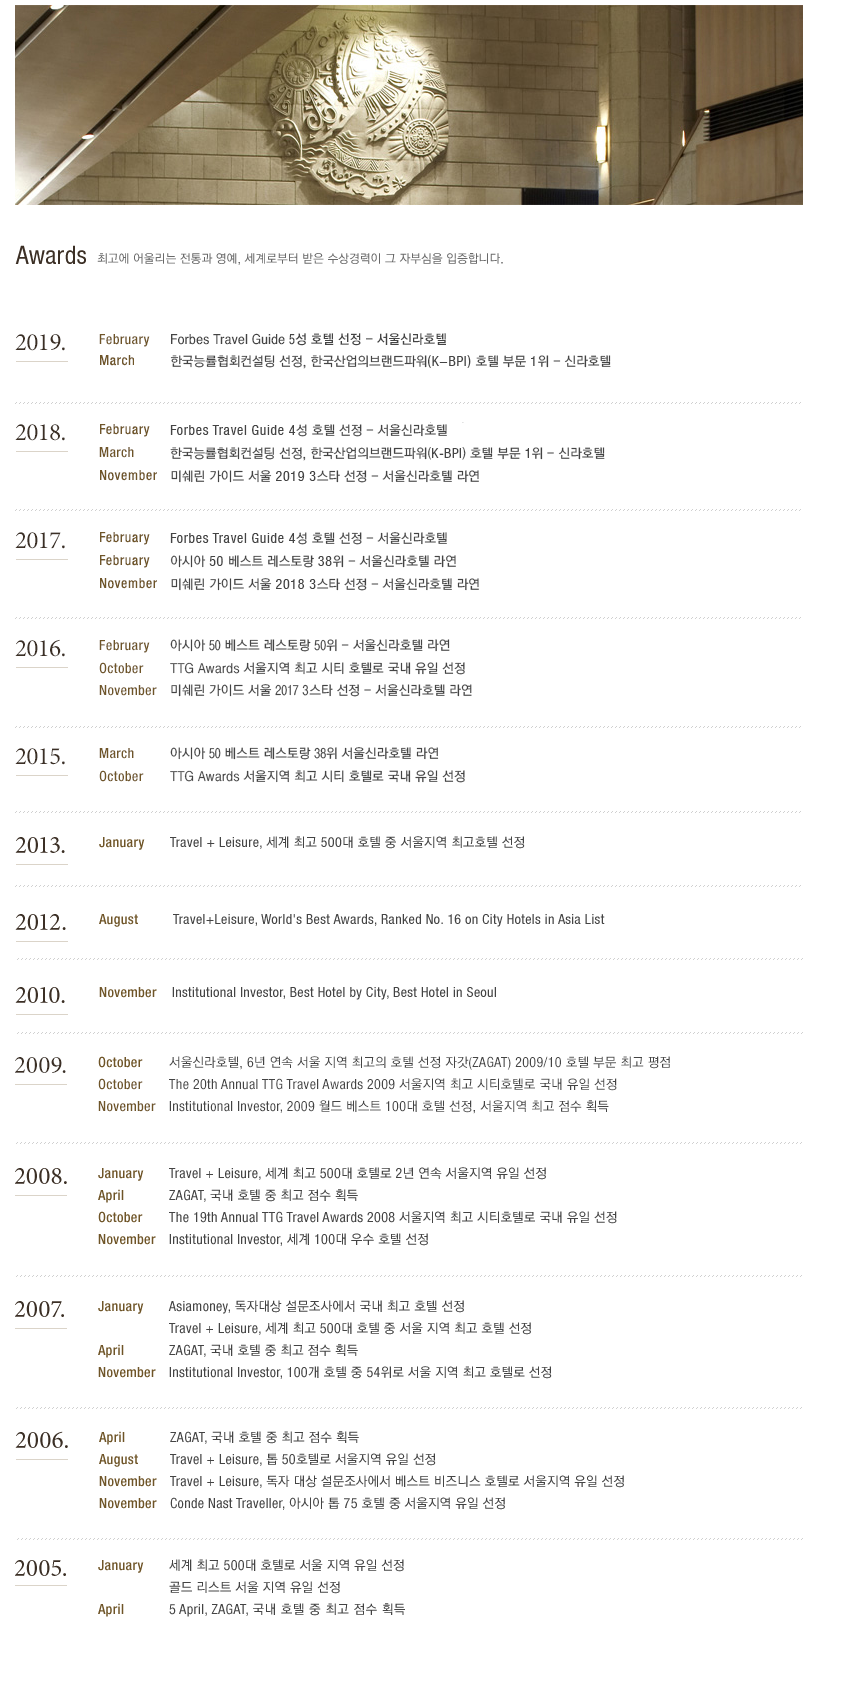
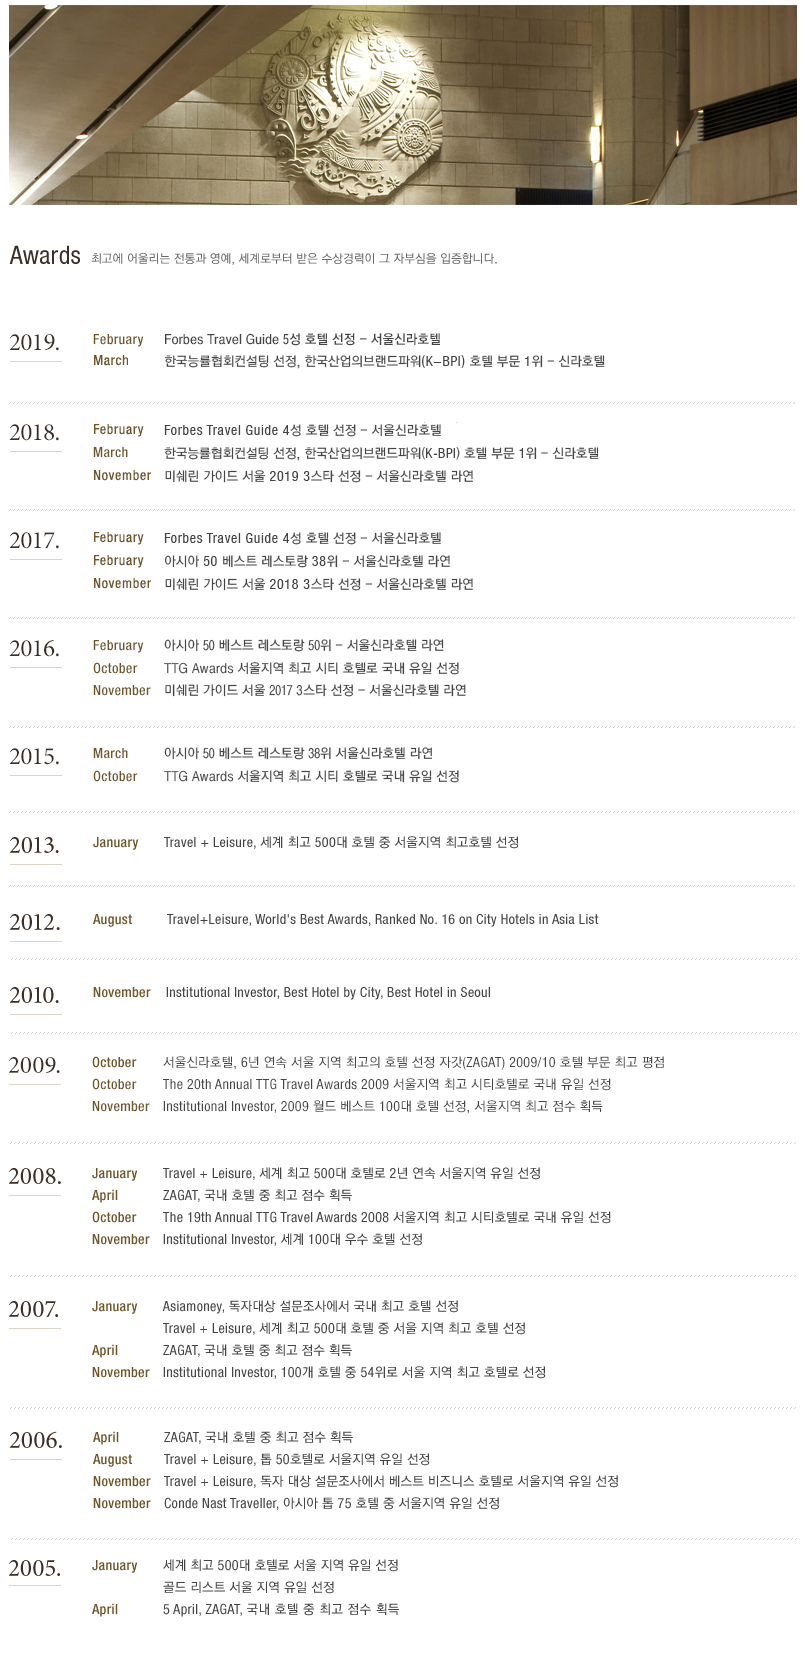
todayup

diff --git a/css/tablet.css b/css/tablet.css
@@ -565,16 +565,19 @@ div.p_right>img{
 /*sub*/
 #sub_header{
 	background: url(../images/sub_menu_bg.png) no-repeat center;
-	background-size: cover;
+	background-size: cover;position: relative;
 
 }
 #sub_header #sub_header_top{
-	width:1260px;height: 450px;margin: 0 auto;padding-top: 20px;position: relative;}
+	width:100%;height: 450px;margin: 0 auto;padding-top: 20px;position: relative;}
 
-#sub_header #sub_header_top>h1{float: left;}
+#sub_header #sub_header_top>h1{
+	_float: left;position: absolute;left: 50%;margin-left: -110px;top: 20%;
+
+}
 #sub_header #sub_header_top>h1>a{}
 
-#sub_header #sub_header_top #sub_main_menu{float: right;padding-top: 7px;}
+#sub_header #sub_header_top #sub_main_menu{float: right;padding-top: 7px;display: none;}
 
 #sub_header #sub_header_top #sub_main_menu ul.sub_util_menu{width:600px;padding-left:165px;margin-bottom: 3px;}
 #sub_header #sub_header_top #sub_main_menu ul.sub_util_menu li{
@@ -601,13 +604,20 @@ div.p_right>img{
 
 /*at_menu*/
 
-.at_menu{width: 1260px;position: absolute;bottom: 0;}
+.at_menu{width: 100%;position: absolute;bottom: 0;}
 .at_menu>ul{
-	width: 1260px;height: 60px;background-color:#eaeaea;
+	width: 100%;height: 122px;background-color:#eaeaea;
 	border-bottom: 2px solid #183464;
 }
-.at_menu>ul>li{width: 210px;height: 60px;float: left;border-right: 1px solid #bebebe;}
+.at_menu>ul>li{
+	width:33.3%;height: 60px;
+	float: left;
+	border-right: 1px solid #bebebe;
+	border: 1px solid #bebebe;
+
+}
 .at_menu>ul>li:last-child{border-right: none;}
+.at_menu>ul>li:nth-child(3){border-right: none;}
 .at_menu>ul>li>a{display: block;line-height: 60px;text-align: center;}
 .at_menu>ul>li>a.active{color:white;background-color: #183464;}
 
@@ -626,21 +636,25 @@ div.p_right>img{
 
 /*location*/
 
-.location{width: 1260px;position: relative;height: 150px;margin: 0 auto;}
-.location>ul{width: 300px;position: absolute;left: 0;top: 20px;}
+.location{width: 100%;position: relative;height: 150px;margin: 0 auto;}
+.location>ul{width: 300px;position: absolute;left: 23px;top: 20px;}
 .location>ul>li{float: left;margin-right: 10px;}
 .location>ul>li:last-child a{color: #162e58;}
 .location>p.sub01_01{
 	color:#162e58;position: absolute;top: 80px;left: 50%;margin-left: -20px;
-	font-size: 26px;
+	font-size: 20px;
 }
 .location>p.sub01_02{
-	color:#162e58;position: absolute;top: 80px;left: 50%;margin-left: -80px;
-	font-size: 26px;
+	color:#162e58;position: absolute;top: 80px;left: 50%;margin-left: -60px;
+	font-size: 20px;
 }
 .location>p.sub01_03{
-	color:#162e58;position: absolute;top: 80px;left: 50%;margin-left: -80px;
-	font-size: 26px;
+	color:#162e58;position: absolute;top: 80px;left: 50%;margin-left: -50px;
+	font-size: 20px;
+}
+.location>p.sub01_06{
+	color:#162e58;position: absolute;top: 80px;left: 50%;margin-left: -40px;
+	font-size: 20px;
 }
 .location>p:before{
 	content: "";display: block;background-color: #162e58;width: 30px;height: 2px;
@@ -649,9 +663,9 @@ div.p_right>img{
 
 /*sub_img*/
 
-.sub_img{width: 1260px;margin: 0 auto;}
+.sub_img{width: 100%;margin: 0 auto;}
 .sub_img>img{margin: 0 auto;display: block;width: 100%;}
-
+.sub_img_06>img{margin: 0 auto;display: block;width: 100%;} 
 /*sub_footer*/
 .footerbg{width: 100%;background-color: #f2e3c4;}
 .footer01{height: 172px;background-color:#f2e3c4;width: 1260px;margin: 0 auto;}

diff --git a/sub01_06.html b/sub01_06.html
@@ -1,6 +1,7 @@
 <!DOCTYPE html>
 <html lang="ko">
 <head>
+	<meta name="viewport" content="width=device-width, user-scalable=no, initial-scale=1.0, maximum-scale=1.0, minimum-scale=1.0">
 	<meta charset="UTF-8">
 	<title>sub</title>
 	<link rel="stylesheet" href="css/reset.css">
@@ -57,7 +58,7 @@
 			<li><a href="#"><img src="images/ri_icon.png" alt=""></a></li>
 			<li><a href="#">수상이력</a></li>
 		</ul>
-		<p class="sub01_03">수상이력</p>
+		<p class="sub01_06">수상이력</p>
 
 	</div>
 	<div class="sub_img">

diff --git a/sub01_01.html b/sub01_01.html
@@ -1,6 +1,7 @@
 <!DOCTYPE html>
 <html lang="ko">
 <head>
+	<meta name="viewport" content="width=device-width, user-scalable=no, initial-scale=1.0, maximum-scale=1.0, minimum-scale=1.0">
 	<meta charset="UTF-8">
 	<title>sub</title>
 	<link rel="stylesheet" href="css/reset.css">

diff --git a/sub01_02.html b/sub01_02.html
@@ -1,6 +1,7 @@
 <!DOCTYPE html>
 <html lang="ko">
 <head>
+	<meta name="viewport" content="width=device-width, user-scalable=no, initial-scale=1.0, maximum-scale=1.0, minimum-scale=1.0">
 	<meta charset="UTF-8">
 	<title>sub</title>
 	<link rel="stylesheet" href="css/reset.css">

diff --git a/sub01_03.html b/sub01_03.html
@@ -1,6 +1,7 @@
 <!DOCTYPE html>
 <html lang="ko">
 <head>
+	<meta name="viewport" content="width=device-width, user-scalable=no, initial-scale=1.0, maximum-scale=1.0, minimum-scale=1.0">
 	<meta charset="UTF-8">
 	<title>sub</title>
 	<link rel="stylesheet" href="css/reset.css">

diff --git a/sub01_04.html b/sub01_04.html
@@ -1,6 +1,7 @@
 <!DOCTYPE html>
 <html lang="ko">
 <head>
+	<meta name="viewport" content="width=device-width, user-scalable=no, initial-scale=1.0, maximum-scale=1.0, minimum-scale=1.0">
 	<meta charset="UTF-8">
 	<title>sub</title>
 	<link rel="stylesheet" href="css/reset.css">

diff --git a/sub01_05.html b/sub01_05.html
@@ -1,6 +1,7 @@
 <!DOCTYPE html>
 <html lang="ko">
 <head>
+	<meta name="viewport" content="width=device-width, user-scalable=no, initial-scale=1.0, maximum-scale=1.0, minimum-scale=1.0">
 	<meta charset="UTF-8">
 	<title>sub</title>
 	<link rel="stylesheet" href="css/reset.css">

diff --git a/sub02_01.html b/sub02_01.html
@@ -1,6 +1,7 @@
 <!DOCTYPE html>
 <html lang="ko">
 <head>
+	<meta name="viewport" content="width=device-width, user-scalable=no, initial-scale=1.0, maximum-scale=1.0, minimum-scale=1.0">
 	<meta charset="UTF-8">
 	<title>sub</title>
 	<link rel="stylesheet" href="css/reset.css">
